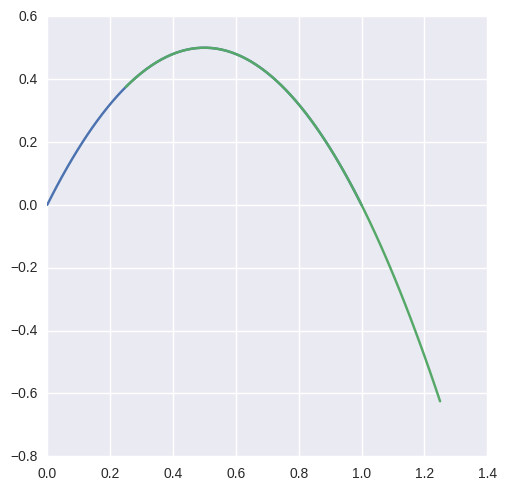
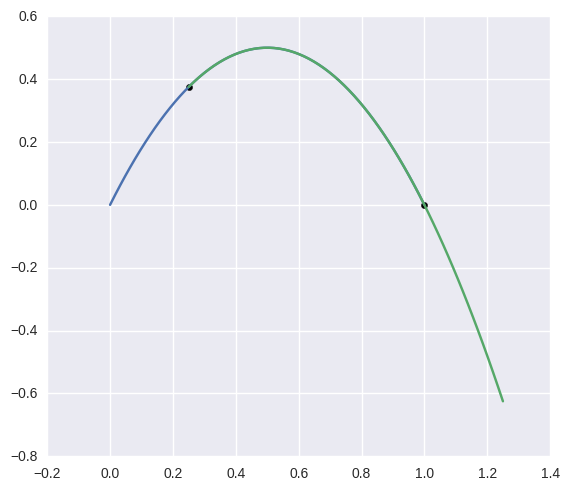
Adding points for coincident curves.
(This is really just for the images, we have no plans
on supporting this type of intersection, since the
intersection is rightly a curve, rather than a set
of points.)

diff --git a/functional_tests/test_curve_curve.py b/functional_tests/test_curve_curve.py
@@ -539,9 +539,12 @@ def test_curves1_and_24():
         np.linspace(0.0, 0.75, 2**8 + 1))
     assert np.all(left_vals == right_vals)
 
-    s_vals = np.zeros((0,))
-    t_vals = s_vals
-    points = np.zeros((0, 2))
+    s_vals = np.array([0.25, 1.0])
+    t_vals = np.array([0.0, 0.75])
+    points = np.array([
+        [0.25, 0.375],
+        [1.0, 0.0],
+    ])
     with pytest.raises(NotImplementedError):
         curve_curve_check(CURVE1, CURVE24, s_vals, t_vals, points)
 
